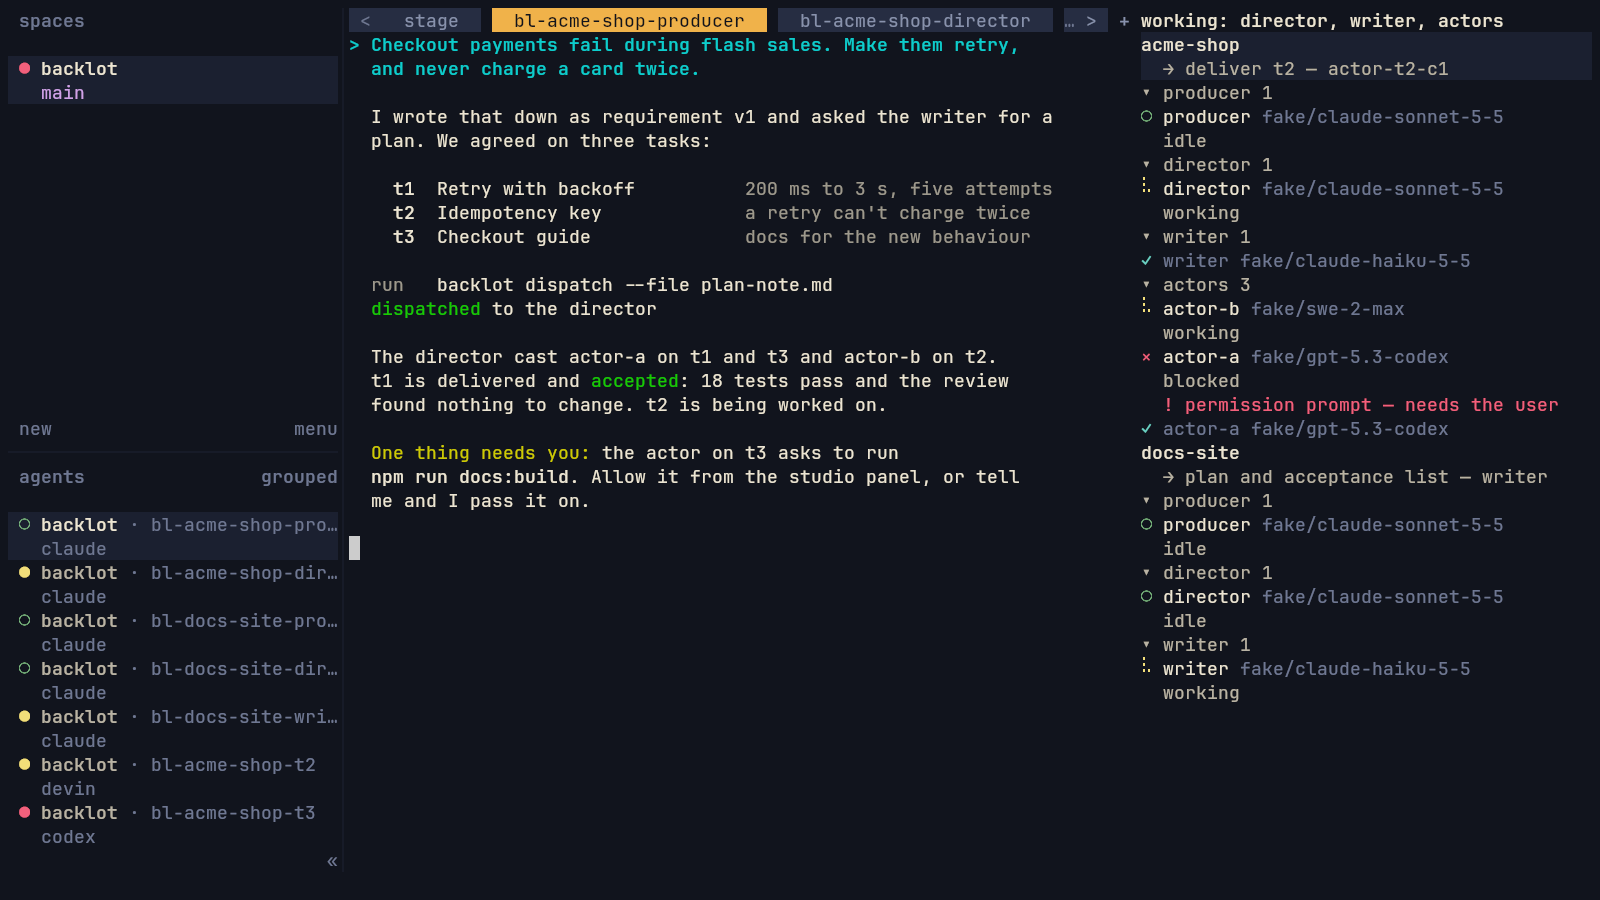
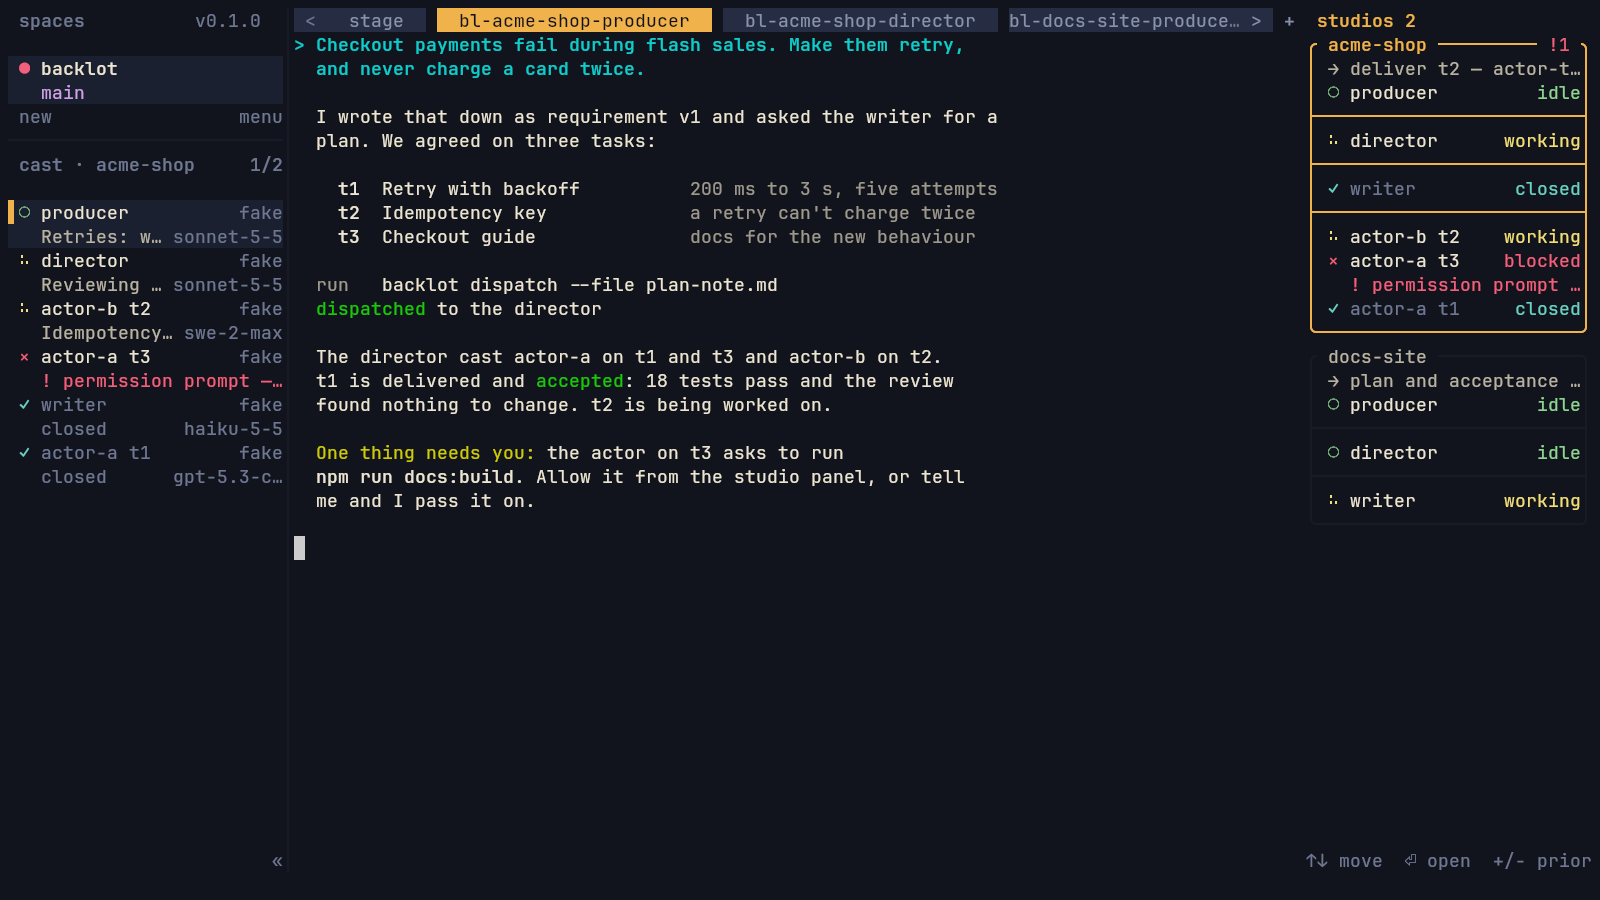
docs: README screenshot of the studio layout

diff --git a/README.md b/README.md
@@ -5,7 +5,7 @@ it into tasks and casts agents onto them, each in its own git worktree; deliveri
 go on a record; and a panel shows who is doing what. Every role is an ordinary terminal you can open and type
 into.
 
-![backlot running a studio: the sidebar lists the roles, the producer explains where the work stands, and the studio panel on the right shows two studios, their people and what needs attention](docs/images/backlot.png)
+![backlot running a studio: the sidebar lists the current studio's cast with each person's title and model, the producer explains where the work stands, and the studio panel on the right shows one bordered block per studio, its people and what needs attention](docs/images/backlot.png)
 
 *A demo studio on the test runner, with invented projects and agent output.*
 
